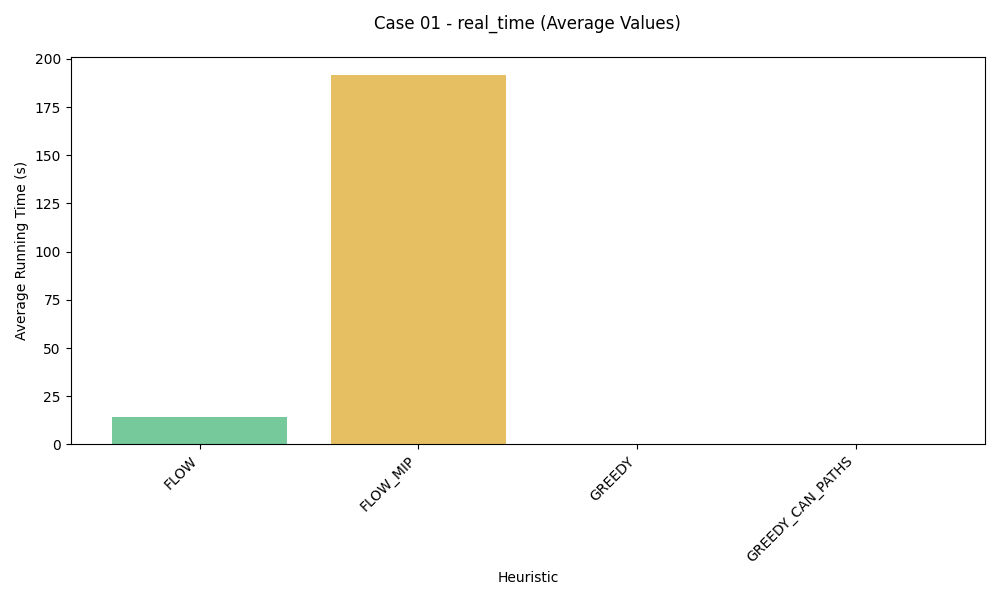
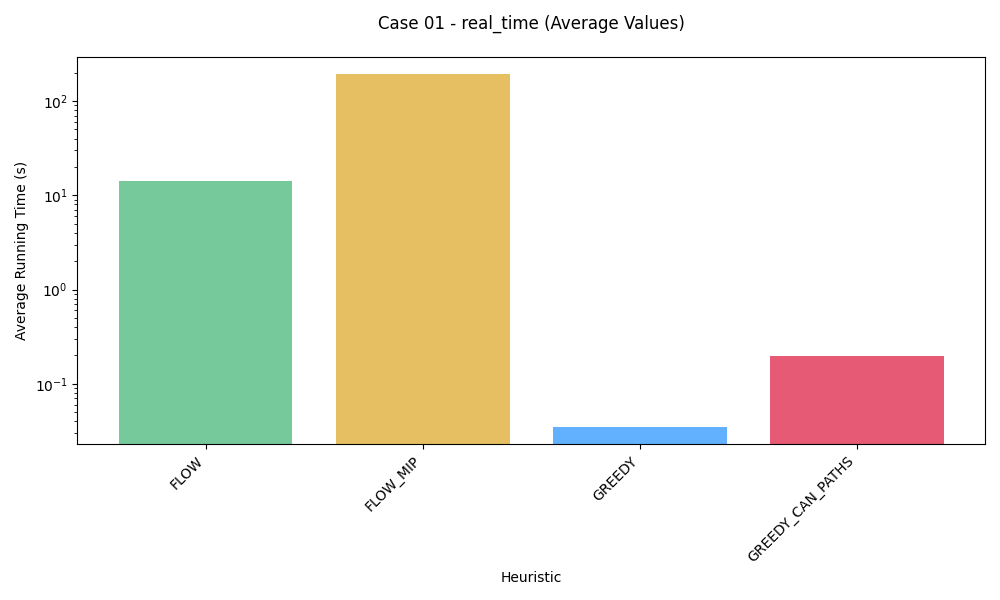
Scale y-axis logarithmically for running time charts

diff --git a/scripts/plot.py b/scripts/plot.py
@@ -125,6 +125,7 @@ def plot(file_ending: str):
             elif file_ending == '_running_time.txt':
                 plot_type_folder = 'running_time'
                 ylabel = 'Running Time (s)'
+                plt.yscale('log')  # Use logarithmic scale for running time
             plt.ylabel(ylabel)
             plt.title(f'Case {case} - {subfolder}', pad=25)
             # Ensure legend order is consistent across all plots
@@ -449,6 +450,7 @@ def create_barcharts(file_ending: str):
                 elif file_ending == '_running_time.txt':
                     plot_type_folder = 'running_time'
                     ylabel = 'Average Running Time (s)'
+                    plt.yscale('log')  # Use logarithmic scale for running time
 
                 plt.ylabel(ylabel)
                 plt.title(f'Case {case} - {subfolder} (Average Values)', pad=20)
